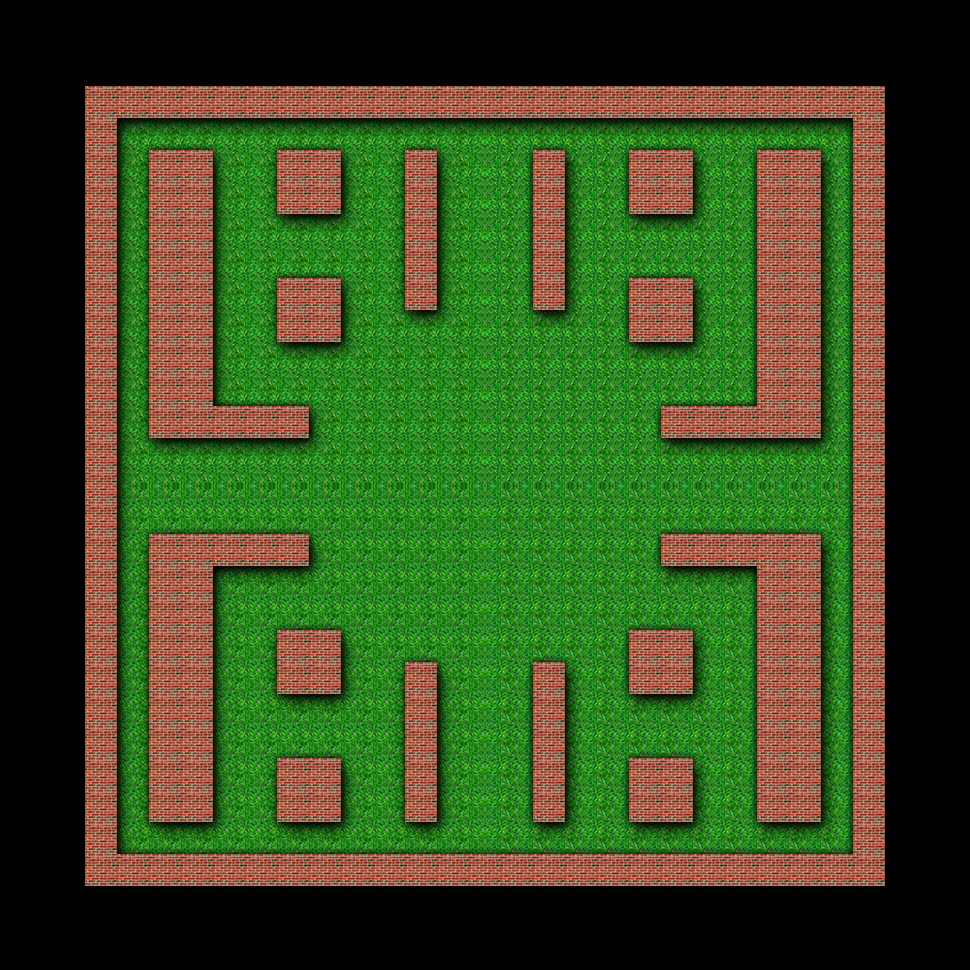
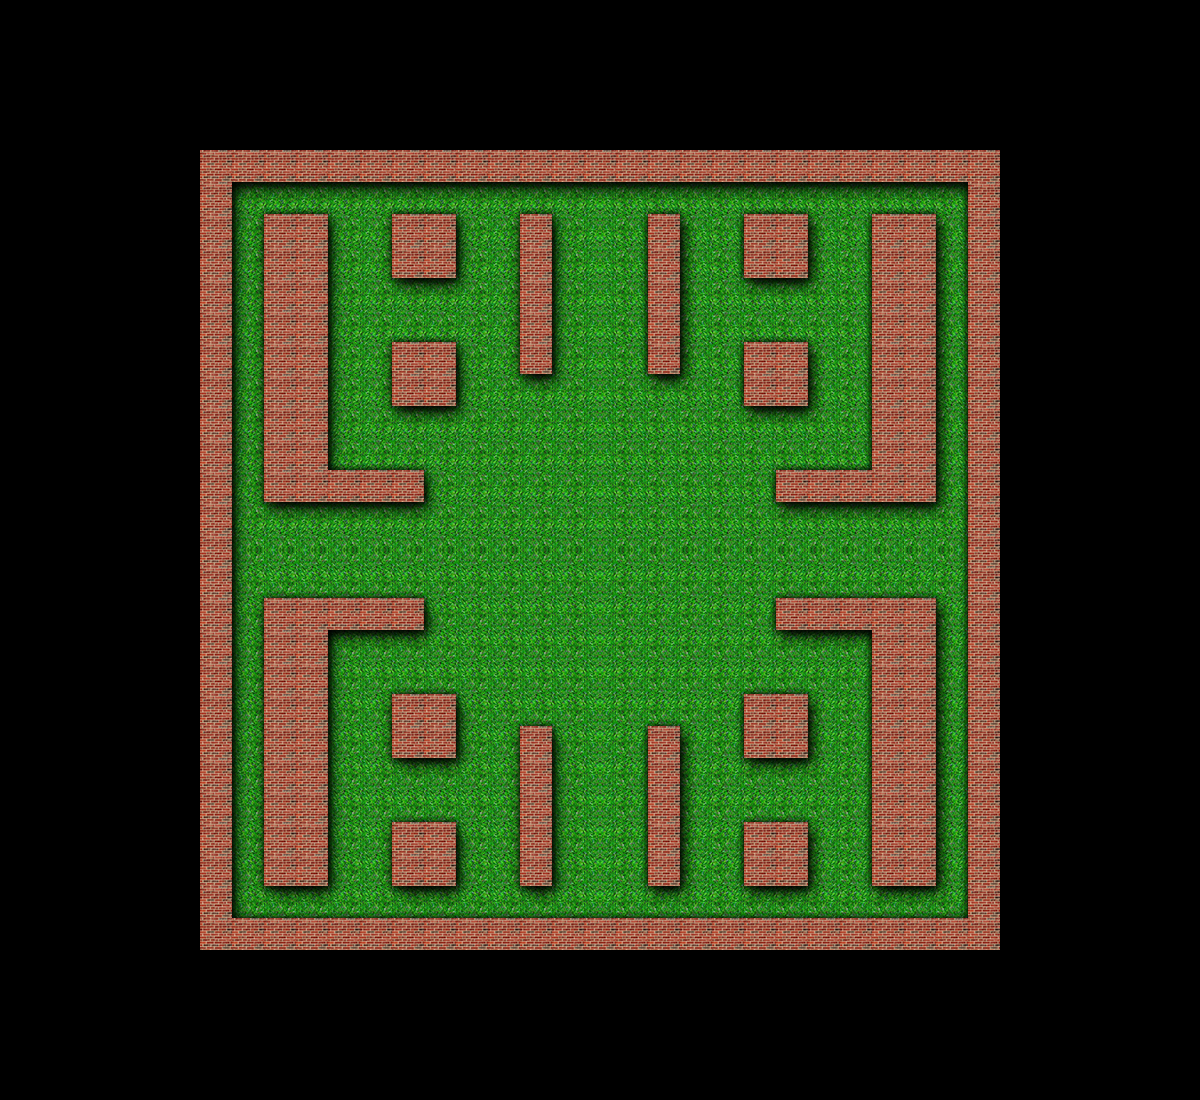
Fix delimitation 4/3

diff --git a/main.c b/main.c
@@ -55,8 +55,8 @@ int main(int argc, char *argv[])
     mainPlayer.step = 0;
     _engine.mapSurface =  IMG_LoadTexture(_engine.screenRenderer, "res/background.png");
     _engine.fogSurface = IMG_LoadTexture(_engine.screenRenderer, "res/fog_260.png");
-    _engine.mapRect.x = 286;
-    _engine.mapRect.y = 330;
+    _engine.mapRect.x = 400;
+    _engine.mapRect.y = 400;
     _engine.mapRect.w = _engine.WIDTH;
     _engine.mapRect.h = _engine.HEIGHT;
     mainPlayer.characterScreenRect.x = _engine.WIDTH/2 - 16;
@@ -131,28 +131,28 @@ int GetKeyPressEvent()
         {
         if (keystate[SDL_SCANCODE_LEFT] )
         {
-          if(_engine.mapRect.x <= 0) return 1;
+          if(_engine.mapRect.x <= 45) return 1;
           _engine.mapRect.x -= 2;
           mainPlayer.state = LEFT;
           mainPlayer.walk = true;
         }
         if (keystate[SDL_SCANCODE_RIGHT] )
         {
-            if(_engine.mapRect.x >= 710) return 1;
+            if(_engine.mapRect.x >= 755) return 1;
             _engine.mapRect.x += 2;
             mainPlayer.state = RIGHT;
             mainPlayer.walk = true;
         }
         if (keystate[SDL_SCANCODE_DOWN] )
         {
-            if(_engine.mapRect.y >= 710) return 1;
+            if(_engine.mapRect.y >= 745) return 1;
             _engine.mapRect.y += 2;
             mainPlayer.state = DOWN;
             mainPlayer.walk = true;
         }
         if (keystate[SDL_SCANCODE_UP] )
         {
-            if(_engine.mapRect.y <= 0) return 1;
+            if(_engine.mapRect.y <= 45) return 1;
             _engine.mapRect.y -= 2;
             mainPlayer.state = UP;
             mainPlayer.walk = true;
@@ -161,7 +161,8 @@ int GetKeyPressEvent()
             SDL_SetWindowFullscreen(_engine.window,SDL_WINDOW_FULLSCREEN);
         if (keystates[SDL_SCANCODE_ESCAPE])
             SDL_SetWindowFullscreen(_engine.window,0);
-        if (keystate[SDL_SCANCODE_RIGHT] && keystate[SDL_SCANCODE_UP])
+         }
+         if (keystate[SDL_SCANCODE_RIGHT] && keystate[SDL_SCANCODE_UP])
             mainPlayer.state = UP_RIGHT;
         else if (keystate[SDL_SCANCODE_LEFT] && keystate[SDL_SCANCODE_UP])
             mainPlayer.state = UP_LEFT;
@@ -169,7 +170,6 @@ int GetKeyPressEvent()
             mainPlayer.state = DOWN_LEFT;
         else if (keystate[SDL_SCANCODE_RIGHT] && keystate[SDL_SCANCODE_DOWN])
             mainPlayer.state = DOWN_RIGHT;
-         }
 
     return 1;
 }
